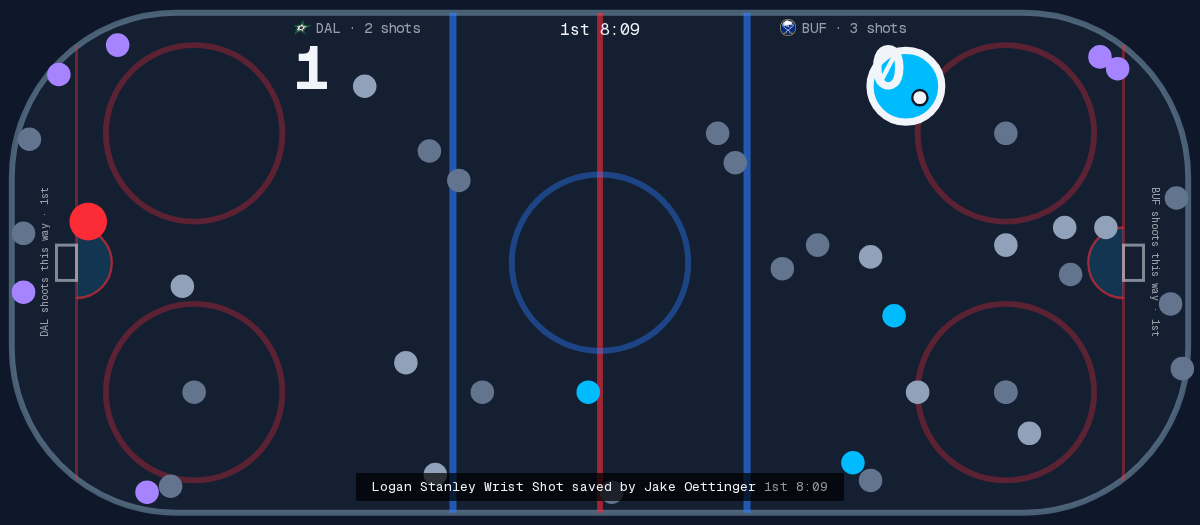
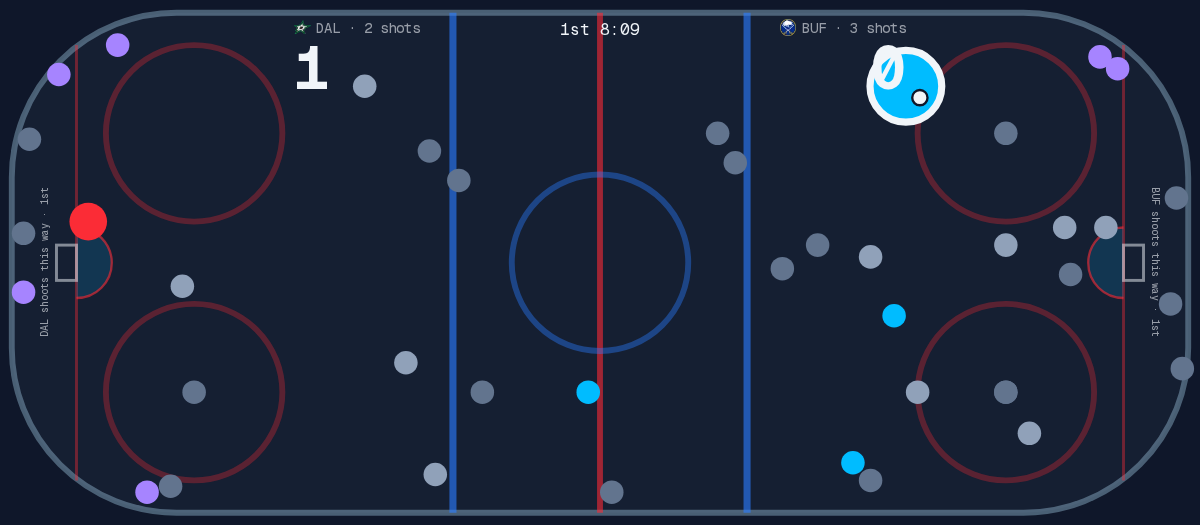
Review fixes: the last shot stays while following, the focused dot keyed, the caption comes in (#141)
Following a game, a shot stays on the ice as it ended until the next one, so
a faceoff arriving with it no longer wipes it or doubles its pace. A page
that had no plays and is sent the game plays nothing. A play taken back as
another arrives still plays the new one. The focused dot is keyed by its
play, a clear no longer fetches GSAP, and the caption fades in as the shot
lands, as the prototype has it.

Claude-Session: https://claude.ai/code/session_01CQvRrABzWoMJMDvuRWy251

Changed region(s): [[0.2775, 0.8838, 0.7092, 0.9752]]

diff --git a/apps/web/lib/game/rink-queue.ts b/apps/web/lib/game/rink-queue.ts
@@ -35,8 +35,8 @@ export type RinkQueue = {
   current: RinkCue | null;
   /** `current` is still running: the player reports `finished` when it has played out. */
   playing: boolean;
-  /** In the game's order. A clear is only ever last. */
-  waiting: readonly RinkCue[];
+  /** In the game's order. */
+  waiting: readonly RinkAnimation[];
 };
 
 export const RINK_QUEUE_OPENED: RinkQueue = {
@@ -70,7 +70,8 @@ export type RinkQueueAction =
  * - Following a game, each play that arrives is played in turn, and a burst queues up.
  * - A picked play (a Replay's playhead, a clicked tick) is played at once in place of whatever
  *   was on the ice, whether it is later or earlier in the game than the last.
- * - The ice shows the play in focus or nothing: a play with nothing to draw clears it.
+ * - A picked play with nothing to draw clears the ice, and so does letting go of a picked play.
+ *   Following a game, the last shot stays on the ice as it ended until the next one arrives.
  * - A play taken back or revised by ESPN leaves nothing stale.
  */
 export function rinkQueueReducer(queue: RinkQueue, action: RinkQueueAction): RinkQueue {
@@ -88,17 +89,16 @@ export function rinkQueueReducer(queue: RinkQueue, action: RinkQueueAction): Rin
   }
   if (before.picked) return show(next, CLEAR);
 
-  const appended = playsAfter(before.plays.at(-1)?.id, after.plays);
-  const cues: RinkCue[] = [];
-  for (const play of appended ?? []) {
+  const revised = revise(next, after);
+  // The game arriving whole (the socket's first word to a page that had none of it) is the page
+  // opening, not plays happening.
+  if (before.plays.length === 0) return revised;
+  const cues: RinkAnimation[] = [];
+  for (const play of arrivals(before.plays, after.plays)) {
     const cue = cueFor(after, play.id);
     if (cue) cues.push(cue);
   }
-  // The latest play has nothing to draw, or the game was rewritten under the page.
-  if (appended == null || (appended.length > 0 && cueFor(after, appended.at(-1)?.id) == null)) {
-    cues.push(CLEAR);
-  }
-  return enqueue(revise(next, after), cues);
+  return enqueue(revised, cues);
 }
 
 function sameScene(a: RinkScene, b: RinkScene): boolean {
@@ -107,11 +107,16 @@ function sameScene(a: RinkScene, b: RinkScene): boolean {
   );
 }
 
-/** The plays after the one with `lastId`; all of them when there was none; null when it is gone. */
-function playsAfter(lastId: string | undefined, plays: readonly Play[]): readonly Play[] | null {
-  if (lastId === undefined) return plays;
-  const last = plays.findLastIndex((play) => play.id === lastId);
-  return last === -1 ? null : plays.slice(last + 1);
+/**
+ * The plays that have arrived: those after the latest play the page already had. ESPN may have
+ * taken that one back in the same breath, so the one before it is looked for, and so on.
+ */
+function arrivals(had: readonly Play[], plays: readonly Play[]): readonly Play[] {
+  for (let at = had.length - 1; at >= 0; at--) {
+    const known = plays.findLastIndex((play) => play.id === had[at]?.id);
+    if (known !== -1) return plays.slice(known + 1);
+  }
+  return [];
 }
 
 function cueFor(scene: RinkScene, playId: string | null | undefined): RinkAnimation | null {
@@ -127,25 +132,18 @@ function cueFor(scene: RinkScene, playId: string | null | undefined): RinkAnimat
 
 const sameCue = (a: RinkCue, b: RinkCue) => JSON.stringify(a) === JSON.stringify(b);
 
-/** The queue with every cue brought up to the game as it now is: gone plays dropped, changed ones redrawn. */
+/** The queue brought up to the game as it now is: plays taken back dropped, changed ones redrawn. */
 function revise(queue: RinkQueue, scene: RinkScene): RinkQueue {
-  const fresh = (cue: RinkCue) => (cue.kind === "clear" ? cue : cueFor(scene, cue.playId));
   const waiting = queue.waiting.flatMap((cue) => {
-    const now = fresh(cue);
+    const now = cueFor(scene, cue.playId);
     return now == null ? [] : [sameCue(now, cue) ? cue : now];
   });
-  const kept = { ...queue, waiting: tidy(waiting, true) };
+  const kept = { ...queue, waiting };
   const { current } = queue;
   if (current == null || current.kind === "clear") return kept;
-  const now = fresh(current);
-  if (now == null) return advance({ ...kept, current: CLEAR, playing: true });
+  const now = cueFor(scene, current.playId);
+  if (now == null) return advance({ ...kept, current: CLEAR, playing: false });
   return sameCue(now, current) ? kept : { ...kept, current: now, playing: true };
-}
-
-/** A clear only ever last, and not at all when there is nothing before it to clear. */
-function tidy(cues: readonly RinkCue[], somethingShown: boolean): RinkCue[] {
-  const kept = cues.filter((cue, at) => cue.kind !== "clear" || at === cues.length - 1);
-  return kept.length === 1 && kept[0]?.kind === "clear" && !somethingShown ? [] : kept;
 }
 
 function show(queue: RinkQueue, cue: RinkCue): RinkQueue {
@@ -156,14 +154,12 @@ function show(queue: RinkQueue, cue: RinkCue): RinkQueue {
 function advance(queue: RinkQueue): RinkQueue {
   const [next, ...waiting] = queue.waiting;
   if (next == null) return { ...queue, playing: false };
-  return { ...queue, current: next, playing: next.kind !== "clear", waiting };
+  return { ...queue, current: next, playing: true, waiting };
 }
 
-function enqueue(queue: RinkQueue, cues: readonly RinkCue[]): RinkQueue {
+function enqueue(queue: RinkQueue, cues: readonly RinkAnimation[]): RinkQueue {
   if (cues.length === 0) return queue;
-  const shown = queue.playing || (queue.current != null && queue.current.kind !== "clear");
-  const all = tidy([...queue.waiting, ...cues], shown);
-  if (all.length === 0) return queue;
+  const all = [...queue.waiting, ...cues];
   if (queue.playing) return { ...queue, waiting: all.slice(-MAX_WAITING) };
   return advance({ ...queue, waiting: all.slice(-(MAX_WAITING + 1)) });
 }

diff --git a/apps/web/lib/game/rink-queue.test.ts b/apps/web/lib/game/rink-queue.test.ts
@@ -107,28 +107,31 @@ describe("a Game Stream", () => {
   });
 
   test("a play with no coordinate, or no shot to draw, is never put on the ice", () => {
-    // The miss, then a shot ESPN gave no place: the miss plays, then the ice is cleared of it.
-    const queue = run([live("faceoff"), live("nowhere")]);
-    expect(playedOut(queue)).toEqual(["miss:miss", "clear"]);
-    // Arriving alone with nothing on the ice, it changes nothing.
+    // The miss, a shot ESPN gave no place, a goal, a blocked shot: two of the four are drawn.
+    const queue = run([live("faceoff"), live("blocked")]);
+    expect(playedOut(queue)).toEqual(["miss:miss", "goal:goal"]);
+    // Arriving alone, the shot with no place changes nothing.
     const quiet = run([live("miss"), live("nowhere")]);
     expect(quiet.current).toBeNull();
     expect(quiet.playing).toBe(false);
     expect(quiet.waiting).toEqual([]);
   });
 
-  test("a shot followed by a faceoff is played, then cleared: the ice shows the play in focus", () => {
+  test("the last shot stays on the ice as it ended while plays with nothing to draw arrive", () => {
     const queue = run([live("start"), live("faceoff")]);
-    expect(named(queue.current)).toBe("save:save");
-    expect(waiting(queue)).toEqual(["clear"]);
-    const done = run(["finished"], queue);
-    expect(named(done.current)).toBe("clear");
-    expect(done.playing).toBe(false);
+    expect(playedOut(queue)).toEqual(["save:save"]);
+    expect(queue.waiting).toEqual([]);
+    expect(queuePace(queue)).toBe(1);
   });
 
-  test("a clear with a shot behind it is dropped: every shot starts from clean ice", () => {
-    const queue = run([live("start"), live("faceoff"), live("miss")]);
-    expect(waiting(queue)).toEqual(["miss:miss"]);
+  test("the whole game arriving on a page that had none of it is the page opening", () => {
+    const empty: RinkScene = { ...live("start"), game: [], plays: [], focusId: null };
+    const arrived = run([empty, live("late")]);
+    expect(arrived.current).toBeNull();
+    expect(arrived.playing).toBe(false);
+    // And from there the game is followed.
+    const more = [...game, play({ id: "next", type: "shot-on-goal", coordinate: { x: 70, y: 0 } })];
+    expect(named(run([live("next", more)], arrived).current)).toBe("save:next");
   });
 
   test("a long burst never stalls: only the latest few wait, in order, and the pace rises", () => {
@@ -241,6 +244,13 @@ describe("a revised game", () => {
     const burst = run([live("start"), live("miss")]);
     const without = game.filter((each) => each.id !== "miss");
     const queue = run([live("faceoff", without)], burst);
-    expect(playedOut(queue)).toEqual(["save:save", "clear"]);
+    expect(playedOut(queue)).toEqual(["save:save"]);
+  });
+
+  test("the latest play taken back as another arrives: the new one is still played", () => {
+    const shown = run([live("start"), live("faceoff"), "finished"]);
+    const rewritten = game.filter((each) => each.id !== "faceoff");
+    const queue = run([live("miss", rewritten)], shown);
+    expect(playedOut(queue)).toEqual(["miss:miss"]);
   });
 });

diff --git a/apps/web/components/game/rink-animations.tsx b/apps/web/components/game/rink-animations.tsx
@@ -1,6 +1,6 @@
 "use client";
 
-import { type RefObject, useEffect, useReducer, useRef } from "react";
+import { type RefObject, useLayoutEffect, useReducer, useRef } from "react";
 import {
   queuePace,
   RINK_QUEUE_OPENED,
@@ -9,7 +9,15 @@ import {
 } from "../../lib/game/rink-queue";
 
 /** GSAP and what draws with it, fetched the first time a page has something to play. */
-const loadPlayer = () => import("./rink-player");
+let player: Promise<typeof import("./rink-player")> | undefined;
+const loadPlayer = () => {
+  player ??= import("./rink-player");
+  // A fetch that failed is tried again by the next cue.
+  player.catch(() => {
+    player = undefined;
+  });
+  return player;
+};
 
 /**
  * Plays the game on the drawn rink: the plays of a Game Stream as they arrive, and the play a
@@ -31,27 +39,31 @@ export function RinkAnimations({
   rink: RefObject<SVGSVGElement | null>;
 }) {
   const [queue, dispatch] = useReducer(rinkQueueReducer, RINK_QUEUE_OPENED);
-  useEffect(() => {
+  // Layout effects throughout: a cue starts before the browser paints the play it is for, so its
+  // dot and caption are not seen whole for a frame before they come in.
+  useLayoutEffect(() => {
     dispatch({ type: "scene", scene: { game, plays, homeTeamId, focusId, picked } });
   }, [game, plays, homeTeamId, focusId, picked]);
 
   // Read when a cue starts: more arriving behind it does not start it again.
   const pace = useRef(1);
-  useEffect(() => {
+  useLayoutEffect(() => {
     pace.current = queuePace(queue);
   }, [queue]);
 
   const { current } = queue;
-  useEffect(() => {
+  useLayoutEffect(() => {
     const root = rink.current;
     if (current == null || root == null) return;
+    // Nothing has been played, so there is nothing to clear, and no reason to fetch GSAP.
+    if (current.kind === "clear" && player === undefined) return;
     let left = false;
     let stop = () => {};
     const finished = () => dispatch({ type: "finished", cue: current });
     loadPlayer().then(
-      (player) => {
+      (loaded) => {
         if (left) return;
-        stop = player.playRinkCue(root, current, {
+        stop = loaded.playRinkCue(root, current, {
           reduced: window.matchMedia("(prefers-reduced-motion: reduce)").matches,
           pace: pace.current,
           onFinished: finished,

diff --git a/apps/web/components/game/rink-player.ts b/apps/web/components/game/rink-player.ts
@@ -23,9 +23,14 @@ function setAttributes(element: Element, attributes: Record<string, number>) {
   }
 }
 
+/** The play's words, on the ice and under it (`game-rink.tsx`). */
+const captions = (root: SVGSVGElement) =>
+  root.closest('[data-slot="game-rink"]')?.querySelectorAll('[data-slot="rink-caption"]') ?? [];
+
 /** The ice as React drew it: nothing of any animation left on it. */
 export function clearRink(root: SVGSVGElement): void {
   gsap.set(root.querySelector('[data-slot="rink-fx"]'), { opacity: 0 });
+  gsap.set(captions(root), { clearProps: "opacity,transform" });
   for (const crease of root.querySelectorAll('[data-slot="rink-crease"]')) {
     crease.removeAttribute("data-lit");
     gsap.set(crease, { clearProps: "strokeWidth" });
@@ -114,6 +119,15 @@ function shot(root: SVGSVGElement, { kind, playId, end, from, to, distance }: Ri
       { scale: 1, duration: 0.25, ease: "back.out(3)" },
       0,
     );
+    // The caption is the play in focus's: its words come in as the shot lands.
+    if (dot.hasAttribute("data-focused")) {
+      timeline.fromTo(
+        captions(root),
+        { opacity: 0, y: 6 },
+        { opacity: 1, y: 0, duration: 0.3 },
+        travel + 0.1,
+      );
+    }
   }
 
   if (kind === "save") {
@@ -140,14 +154,17 @@ function shot(root: SVGSVGElement, { kind, playId, end, from, to, distance }: Ri
         { attr: { r: 1 }, opacity: 0.9, strokeWidth: 1 },
         { attr: { r: 9 }, opacity: 0, strokeWidth: 0.2, duration: 0.6, immediateRender: false },
         travel,
-      )
-      .call(() => crease?.setAttribute("data-lit", ""), undefined, travel)
-      .fromTo(
-        crease,
-        { strokeWidth: 1.2 },
-        { strokeWidth: 0.7, duration: 0.6, immediateRender: false },
-        travel,
       );
+    if (crease) {
+      timeline
+        .call(() => crease.setAttribute("data-lit", ""), undefined, travel)
+        .fromTo(
+          crease,
+          { strokeWidth: 1.2 },
+          { strokeWidth: 0.7, duration: 0.6, immediateRender: false },
+          travel,
+        );
+    }
   } else if (kind === "miss") {
     timeline
       .to(puck, { opacity: 0, duration: 0.2 }, travel)

diff --git a/apps/web/lib/game/rink-animation.ts b/apps/web/lib/game/rink-animation.ts
@@ -16,8 +16,8 @@ type ShotLine = {
 };
 
 /**
- * What the rink plays for one play: a description with no drawing in it, which
- * `playRinkAnimation` (`components/game/rink-animations.ts`) turns into a GSAP timeline.
+ * What the rink plays for one play: a description with no drawing in it, which `playRinkCue`
+ * (`components/game/rink-player.ts`) turns into a GSAP timeline.
  *
  * One member per kind of thing seen. The goal sequence (#142) adds what a goal says besides its
  * line to the `goal` member; penalties (#143) add a member of their own, with no line.

diff --git a/apps/web/components/game/rink.tsx b/apps/web/components/game/rink.tsx
@@ -203,7 +203,8 @@ export function Rink({
       {ordered.map((play) => (
         <Mark key={play.id} play={play} focused={false} />
       ))}
-      {focus != null && <Mark play={focus} focused />}
+      {/* Keyed, so each focus is a dot of its own: an animation may be part-way through the last. */}
+      {focus != null && <Mark key={focus.id} play={focus} focused />}
       <Effects />
     </svg>
   );

diff --git a/docs/agents/build-notes.md b/docs/agents/build-notes.md
@@ -5,15 +5,19 @@ What earlier tickets learned that the code does not show. Read before building; 
 ## The animated rink (#141)
 
 - **Three parts.** `lib/game/rink-animation.ts` (`describePlay`: a play to a `RinkAnimation`, pure), `lib/game/rink-queue.ts` (a reducer: what the page shows to what the ice plays, pure) and `components/game/rink-player.ts` (GSAP draws one cue). `RinkAnimations` joins them and renders nothing. The goal sequence (#142) adds fields to the `goal` member and steps to its timeline; penalties (#143) add a member, a `case` in `timelineFor` and their own elements in `Effects`.
-- **The rules are the queue's**, the same for a Game Stream and a Replay: a page opening plays nothing; following a game, arrivals queue and play one at a time; a picked play (a Replay's playhead, a clicked tick) replaces whatever is on the ice; the ice shows the play in focus or nothing. One poll of ESPN is a burst (save, stoppage, faceoff arrive together), so a burst is the usual case, not the odd one.
+- **The rules are the queue's**, the same for a Game Stream and a Replay: a page opening plays nothing; following a game, arrivals queue and play one at a time; a picked play (a Replay's playhead, a clicked tick) replaces whatever is on the ice, and clears it if it has nothing to draw; following a game, the last shot stays as it ended until the next arrives. One poll of ESPN is a burst (save, stoppage, faceoff arrive together), so a burst is the usual case, not the odd one.
 - **GSAP only touches what React never changes**: the effects layer and the creases, which have constant props, and a dot's `transform`, which React does not set. A tween of a React-owned attribute (a dot's `r`) loses to the next render, or wins against it and leaves the wrong size.
 - **GSAP rounds a style in px**, so `strokeDashoffset` from 1 to 0 on a `pathLength="1"` line jumps instead of drawing (the prototype's line has this fault). Tween the line's `x2`/`y2` with `attr`.
 - **A `set` inside a timeline is not drawn until the next tick**, which is one empty frame between two cues. Set the starting state with `gsap.set` outside the timeline.
-- **Reduced motion still holds each cue**: the timeline is jumped to its end, but the cue is reported finished only after the hold. Finishing at once would let a trailing faceoff's clear wipe a save before anyone saw it.
+- **Reduced motion still holds each cue**: the timeline is jumped to its end, but the cue is reported finished only after the hold, or a burst would show only its last play.
+- **The focused dot is keyed by its play.** Unkeyed, React hands the same `<circle>` to the next focus, with whatever a timeline had half done to it.
+- **A page that had no plays and then has the game is opening, not watching**: the Game Agent's first message is every play so far. The queue plays nothing for it.
+- **The cue effects are layout effects**, so a dot and a caption are hidden before the frame that would have shown them whole.
 - **GSAP is one lazy chunk**, fetched when a game page first has something to play, and `rink-player.ts` is the only file that may import it. Sizes from `ESPN_FIXTURES=1 pnpm build`: `game-page` 23.67 kB (7.96 gzip) before, 28.38 kB (9.55) after; `rink-player` 71.79 kB (28.26), on first cue only; no other chunk changed. Compare the build log's chunk list before and after: the bytes a browser loads for a route vary by a few files from run to run with what gets prefetched.
 - **The minifier drops every comment, licence notices included** (React's too). GSAP's licence wants its notice kept, so `apps/web/vite.config.ts` writes it back on the `rink-player` chunk with `output.postBanner`. Renaming that file means renaming `GSAP_CHUNK` there.
 - **`node scripts/rink-shots.ts <url>`** retakes `docs/design/rink-animations/` and prints what was on the ice after each step of a Replay and a Game Stream, and the layout shift with and without animations (it blocks the chunk for the second). The recorded game has no shot without a coordinate, so the script makes one.
-- **Layout shift cannot be told from a single number here**: stepping a Replay grows and shrinks the plays list, which Chrome counts when the click is scripted. Animated and not, the Replay run measured the same (0.4503 both).
+- **Layout shift cannot be told from a single number here**: stepping a Replay grows and shrinks the plays list, which Chrome counts when the click is scripted. So the script runs each case twice, animated and with the chunk blocked: Replay 0.4436 animated against 0.4503 without, Game Stream 0.1335 against 0.1362. The figures move by a few thousandths from run to run with when the list's rows land; the animations, which draw only inside the SVG and with transforms, add none.
+- **`e2e/skeleton.spec.ts` fails on a second local run more than a minute after the first**: the local KV keeps the skeleton's reading between runs, the first load serves the stale one and refreshes it, and the reload shows the new one. It passes from clean state, as in CI, and when run within the minute (seen both ways on this branch; not this ticket's to fix).
 - **`vite preview` has no plays for the recorded game** unless the fixture D1 is copied over (see #107's notes), so the ticks are missing there; check animations on `pnpm dev`.
 
 ## Home screen install (#130)
